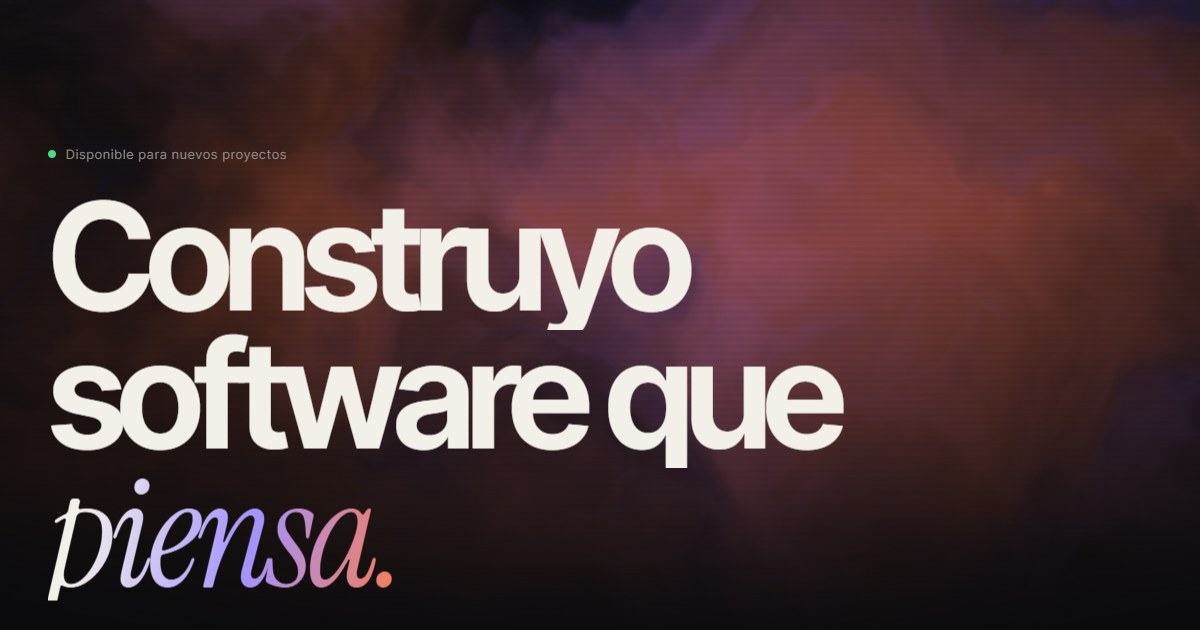
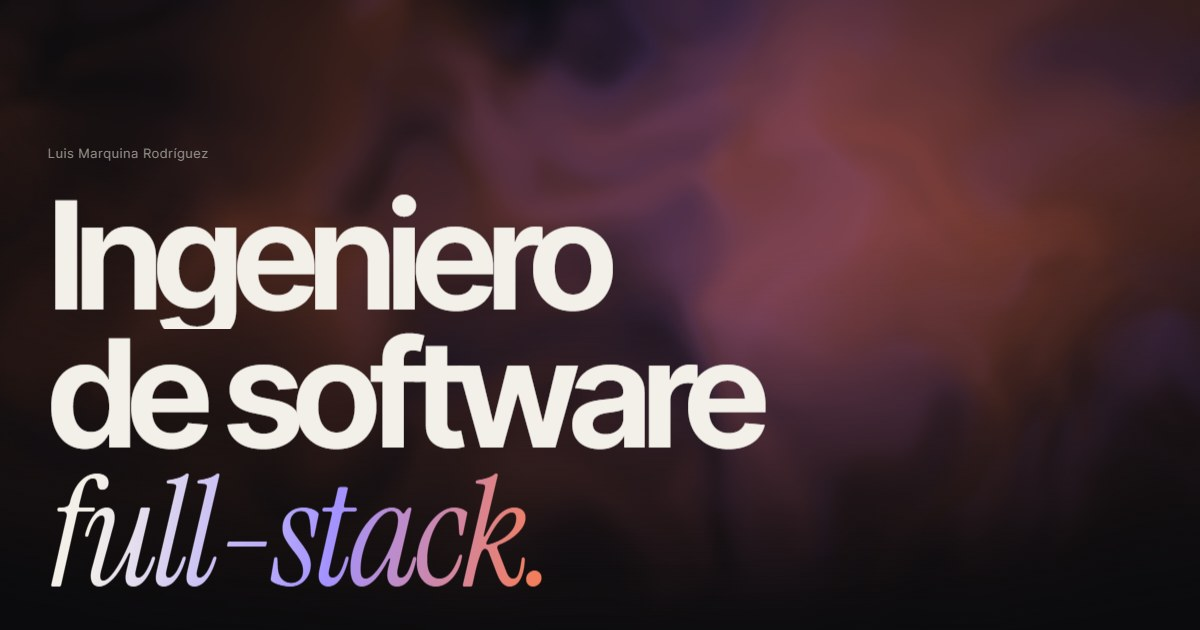
content: titular de portada sencillo y profesional

diff --git a/src/data/content.ts b/src/data/content.ts
@@ -20,8 +20,8 @@ const es = {
   nav: { work: 'Proyectos', about: 'Sobre mí', experience: 'Trayectoria', contact: 'Contacto', cv: 'CV', other: 'EN', otherHref: '/en/' },
   loader: 'Cargando portfolio',
   hero: {
-    eyebrow: 'Ingeniero de software · Madrid',
-    lines: ['Construyo', 'software que', 'piensa.'],
+    eyebrow: 'Madrid',
+    lines: ['Ingeniero', 'de software', 'full-stack.'],
     roles: ['Full-stack', 'IA aplicada', 'Rust · TypeScript', 'Datos', 'Producto'],
     lead:
       'Diseño, programo y despliego productos completos: del modelo de datos y la seguridad a la interfaz. En 2026 he cofundado y lanzado dos SaaS con IA, ya en piloto con sus primeros clientes.',
@@ -188,8 +188,8 @@ const en: typeof es = {
   nav: { work: 'Work', about: 'About', experience: 'Journey', contact: 'Contact', cv: 'CV', other: 'ES', otherHref: '/' },
   loader: 'Loading portfolio',
   hero: {
-    eyebrow: 'Software engineer · Madrid',
-    lines: ['I build', 'software that', 'thinks.'],
+    eyebrow: 'Madrid, Spain',
+    lines: ['Full-stack', 'software', 'engineer.'],
     roles: ['Full-stack', 'Applied AI', 'Rust · TypeScript', 'Data', 'Product'],
     lead:
       'I design, build and ship complete products: from the data model and security to the interface. In 2026 I co-founded and shipped two AI-powered SaaS products, now piloting with early customers.',

diff --git a/log.md b/log.md
@@ -43,3 +43,7 @@
 - Foto: ahora es la de perfil de LinkedIn (800×800, descargada por Claude con permiso de Luis, original en cv/fuentes/, fuera de Git), recortada a 4:5 en 640×800, sin parallax ni zoom extra.
 - Menú superior: la animación de entrada dejaba un transform residual que lo cortaba y anulaba el ocultado al hacer scroll; arreglado con clearProps.
 - La foto parecía tardar en cargar: era la animación de destapado (1,6 s, desde el 80 % de pantalla). Ahora aparece en 0,5 s nada más asomar; textos y títulos también aparecen antes y más rápido (0,7 s).
+
+## 2026-11-01 — Titular
+
+- Titular de portada cambiado de «Construyo software que piensa.» (cursi) a «Ingeniero de software full-stack.» / «Full-stack software engineer.»; la línea pequeña de roles pasa a «Madrid» para no repetirlo. Imagen para compartir (og.jpg) regenerada.
